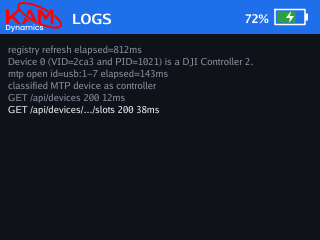
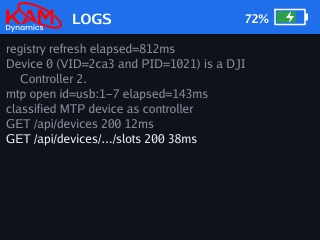
feat(display): bigger font and line wrapping on the Logs page
The Logs page truncated long journal lines at a 9.5px font, so the most
useful tail of a structured log line (msg/version/error) fell off the
right edge. Bump to a 12px font and wrap long lines across rows instead
of truncating — continuation rows are indented so a wrapped entry reads
as one block, and the newest entry stays brightest at the bottom.

Changed region(s): [[0.0, 0.175, 0.7812, 0.6125]]

diff --git a/internal/display/render.go b/internal/display/render.go
@@ -314,21 +314,22 @@ func renderLogs(s Snapshot) *image.RGBA {
 	dc.Clear()
 	header(dc, "LOGS", s)
 
-	// Fill the whole area below the header with as many lines as fit;
-	// no footer here, so the cramped panel gets every available row.
+	// Fill the area below the header. Long lines wrap (rather than
+	// truncate) across multiple rows so nothing is lost; continuation
+	// rows are indented so a wrapped entry reads as one block. No footer,
+	// so the cramped panel gets every available row.
 	const (
-		top     = 34 + 7 // just under header()'s 34px accent bar
-		lineH   = 12.0   // integer-valued so int(lineH) below is a clean const conversion
-		leftPad = 8.0
-		fontPx  = 9.5
+		top     = 34 + 4 // just under header()'s 34px accent bar
+		lineH   = 15.0   // integer-valued so int(lineH) below is a clean const conversion
+		leftPad = 6.0
+		contPad = 14.0 // extra indent for wrapped continuation rows
+		fontPx  = 12.0  // larger than the splash log for on-device readability
 	)
-	maxW := float64(ScreenW) - 2*leftPad
-	rows := (ScreenH - top) / int(lineH) // integer math: avoid const float→int truncation
+	maxRows := (ScreenH - top) / int(lineH)            // integer math: avoid const float→int truncation
+	wrapW := float64(ScreenW) - 2*leftPad - contPad    // width a continuation row must fit
+	setFace(dc, fontRegular, fontPx)                   // set before any MeasureString
+
 	lines := s.Logs
-	if len(lines) > rows {
-		lines = lines[len(lines)-rows:]
-	}
-	setFace(dc, fontRegular, fontPx)
 	if len(lines) == 0 {
 		// No lines yet: tail still connecting, or the service user can't
 		// read the journal (needs SupplementaryGroups=systemd-journal).
@@ -336,18 +337,81 @@ func renderLogs(s Snapshot) *image.RGBA {
 		dc.DrawString("waiting for kam-transfer log…", leftPad, float64(top)+lineH)
 		return img
 	}
-	y := float64(top) + lineH
+
+	// Wrap every line to the panel width, newest entry last, then keep
+	// only the final maxRows display rows so the newest content sits at
+	// the bottom.
+	type logRow struct {
+		text   string
+		x      float64
+		newest bool
+	}
 	last := len(lines) - 1
+	var allRows []logRow
 	for i, ln := range lines {
-		if i == last {
-			setCol(dc, colText) // newest line brightest
+		for j, w := range wrapToWidth(dc, ln, wrapW) {
+			x := float64(leftPad)
+			if j > 0 {
+				x += contPad // continuation row
+			}
+			allRows = append(allRows, logRow{text: w, x: x, newest: i == last})
+		}
+	}
+	if len(allRows) > maxRows {
+		allRows = allRows[len(allRows)-maxRows:]
+	}
+	y := float64(top) + lineH
+	for _, r := range allRows {
+		if r.newest {
+			setCol(dc, colText) // newest entry brightest
 		} else {
 			setCol(dc, colMuted)
 		}
-		dc.DrawString(truncateToWidth(dc, ln, maxW), leftPad, y)
+		dc.DrawString(r.text, r.x, y)
 		y += lineH
 	}
 	return img
+}
+
+// wrapToWidth breaks s into lines that each fit maxW at the context's
+// current font face. It wraps on spaces and hard-breaks any single token
+// too wide to fit on its own. Always returns at least one line.
+func wrapToWidth(dc *gg.Context, s string, maxW float64) []string {
+	var out []string
+	cur := ""
+	for _, word := range strings.Split(s, " ") {
+		cand := word
+		if cur != "" {
+			cand = cur + " " + word
+		}
+		if w, _ := dc.MeasureString(cand); w <= maxW {
+			cur = cand
+			continue
+		}
+		// cand overflows: commit the current row, then place the word.
+		if cur != "" {
+			out = append(out, cur)
+			cur = ""
+		}
+		if w, _ := dc.MeasureString(word); w <= maxW {
+			cur = word
+			continue
+		}
+		// A single token wider than the panel — hard-break it by runes.
+		chunk := ""
+		for _, r := range word {
+			t := chunk + string(r)
+			if w, _ := dc.MeasureString(t); w <= maxW || chunk == "" {
+				chunk = t
+				continue
+			}
+			out = append(out, chunk)
+			chunk = string(r)
+		}
+		cur = chunk
+	}
+	out = append(out, cur)
+	return out
 }
 
 // renderQR draws a full-screen QR code of the server URL.